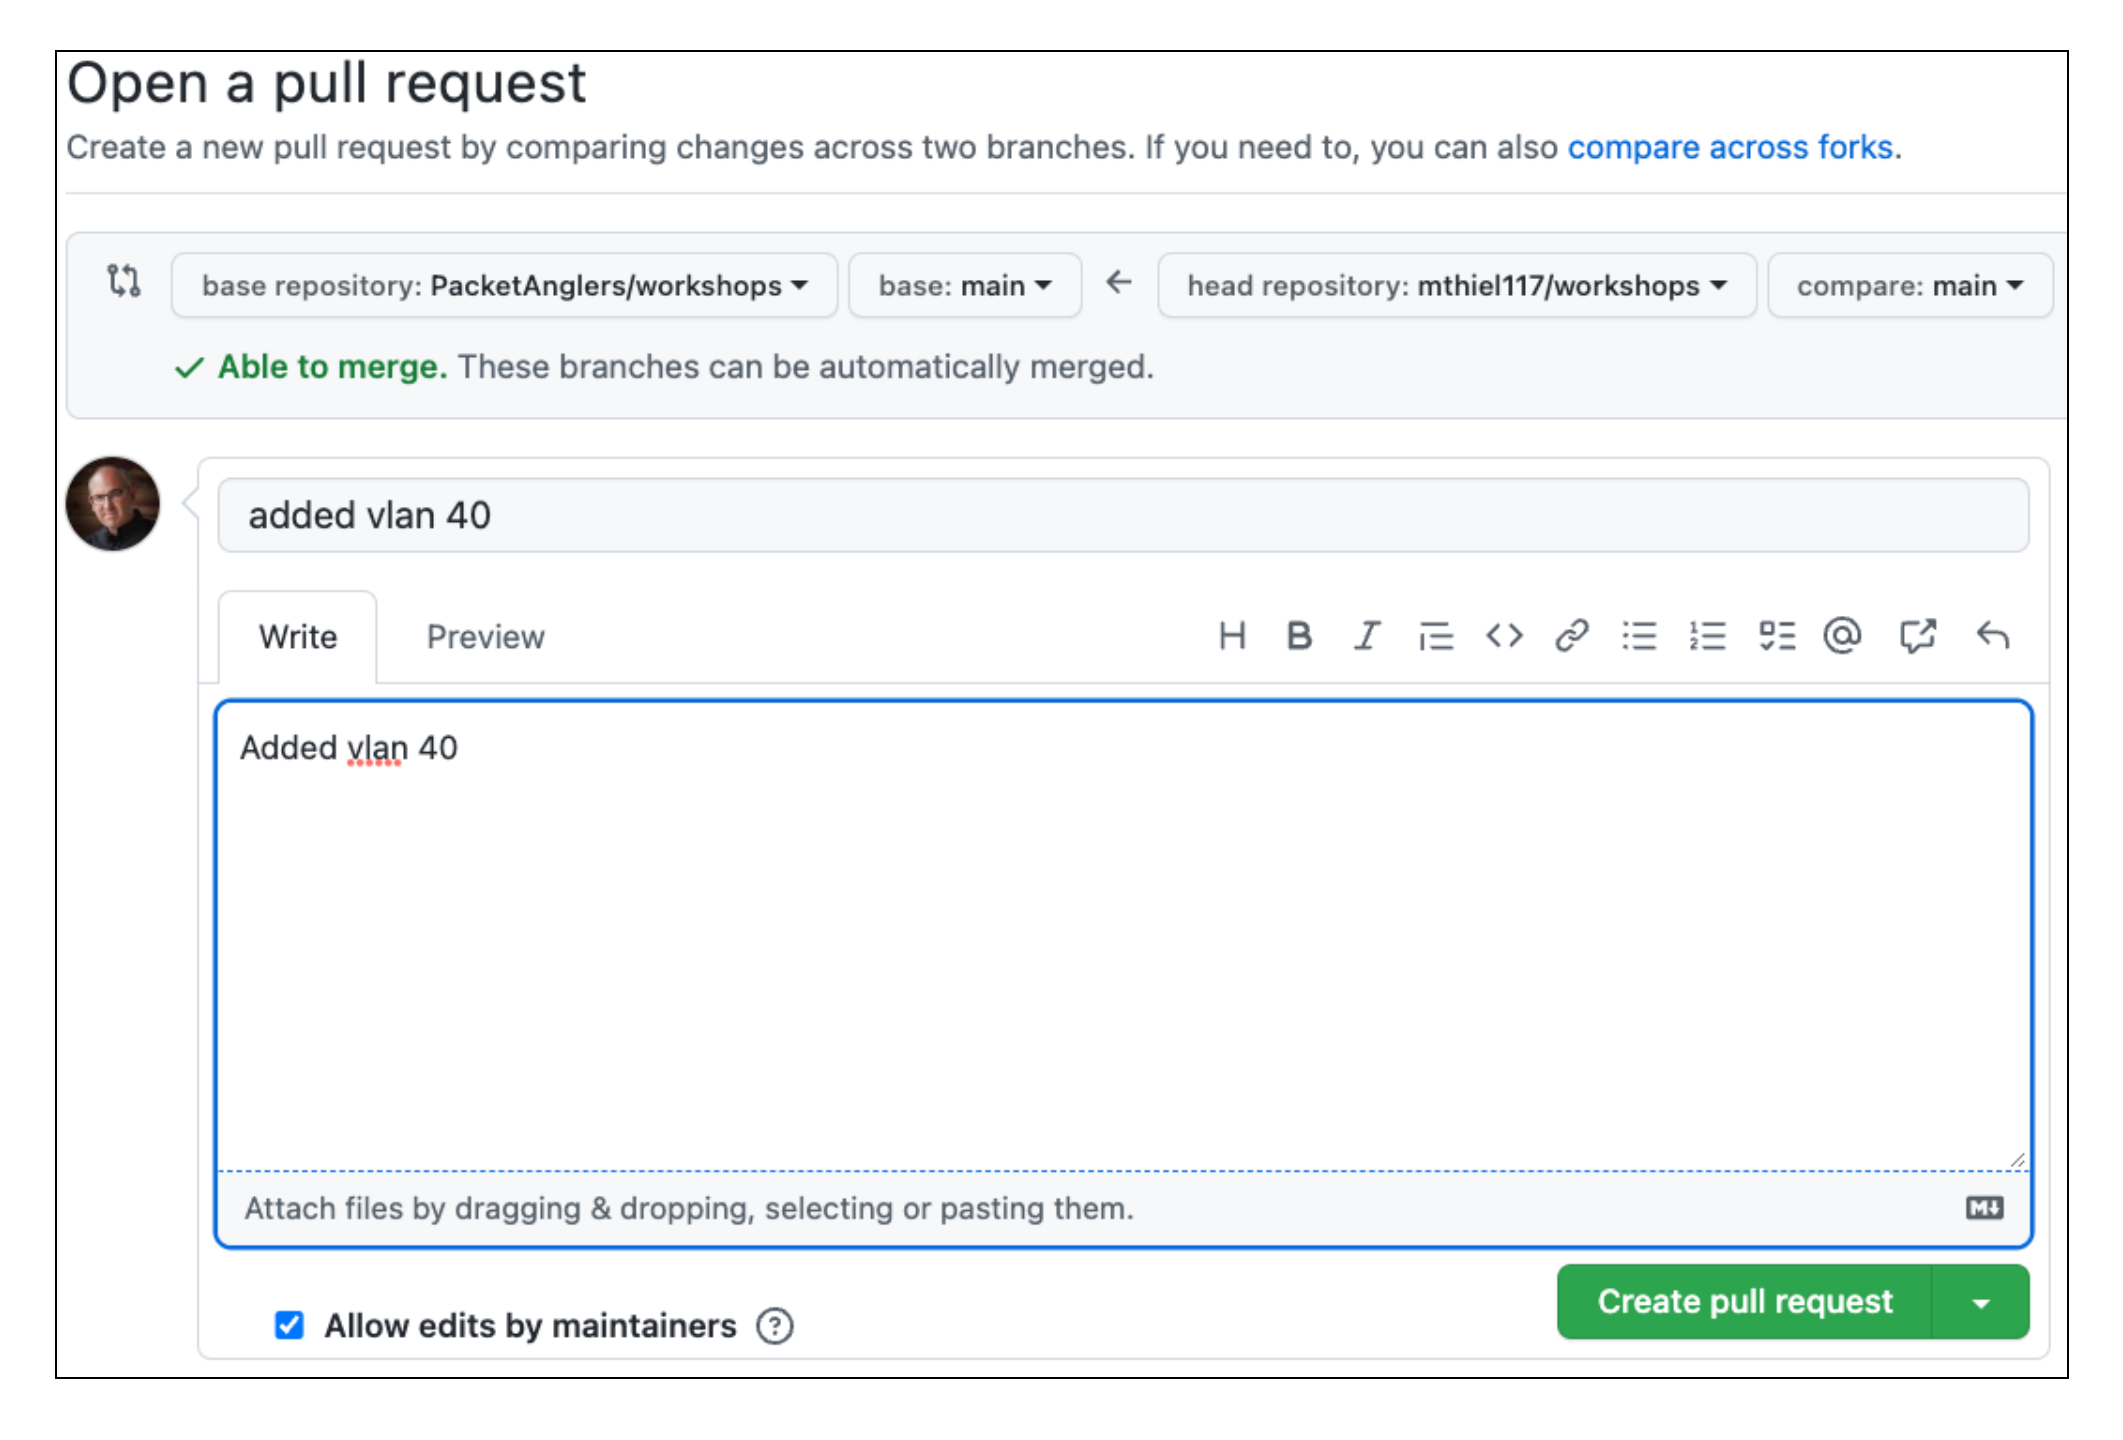
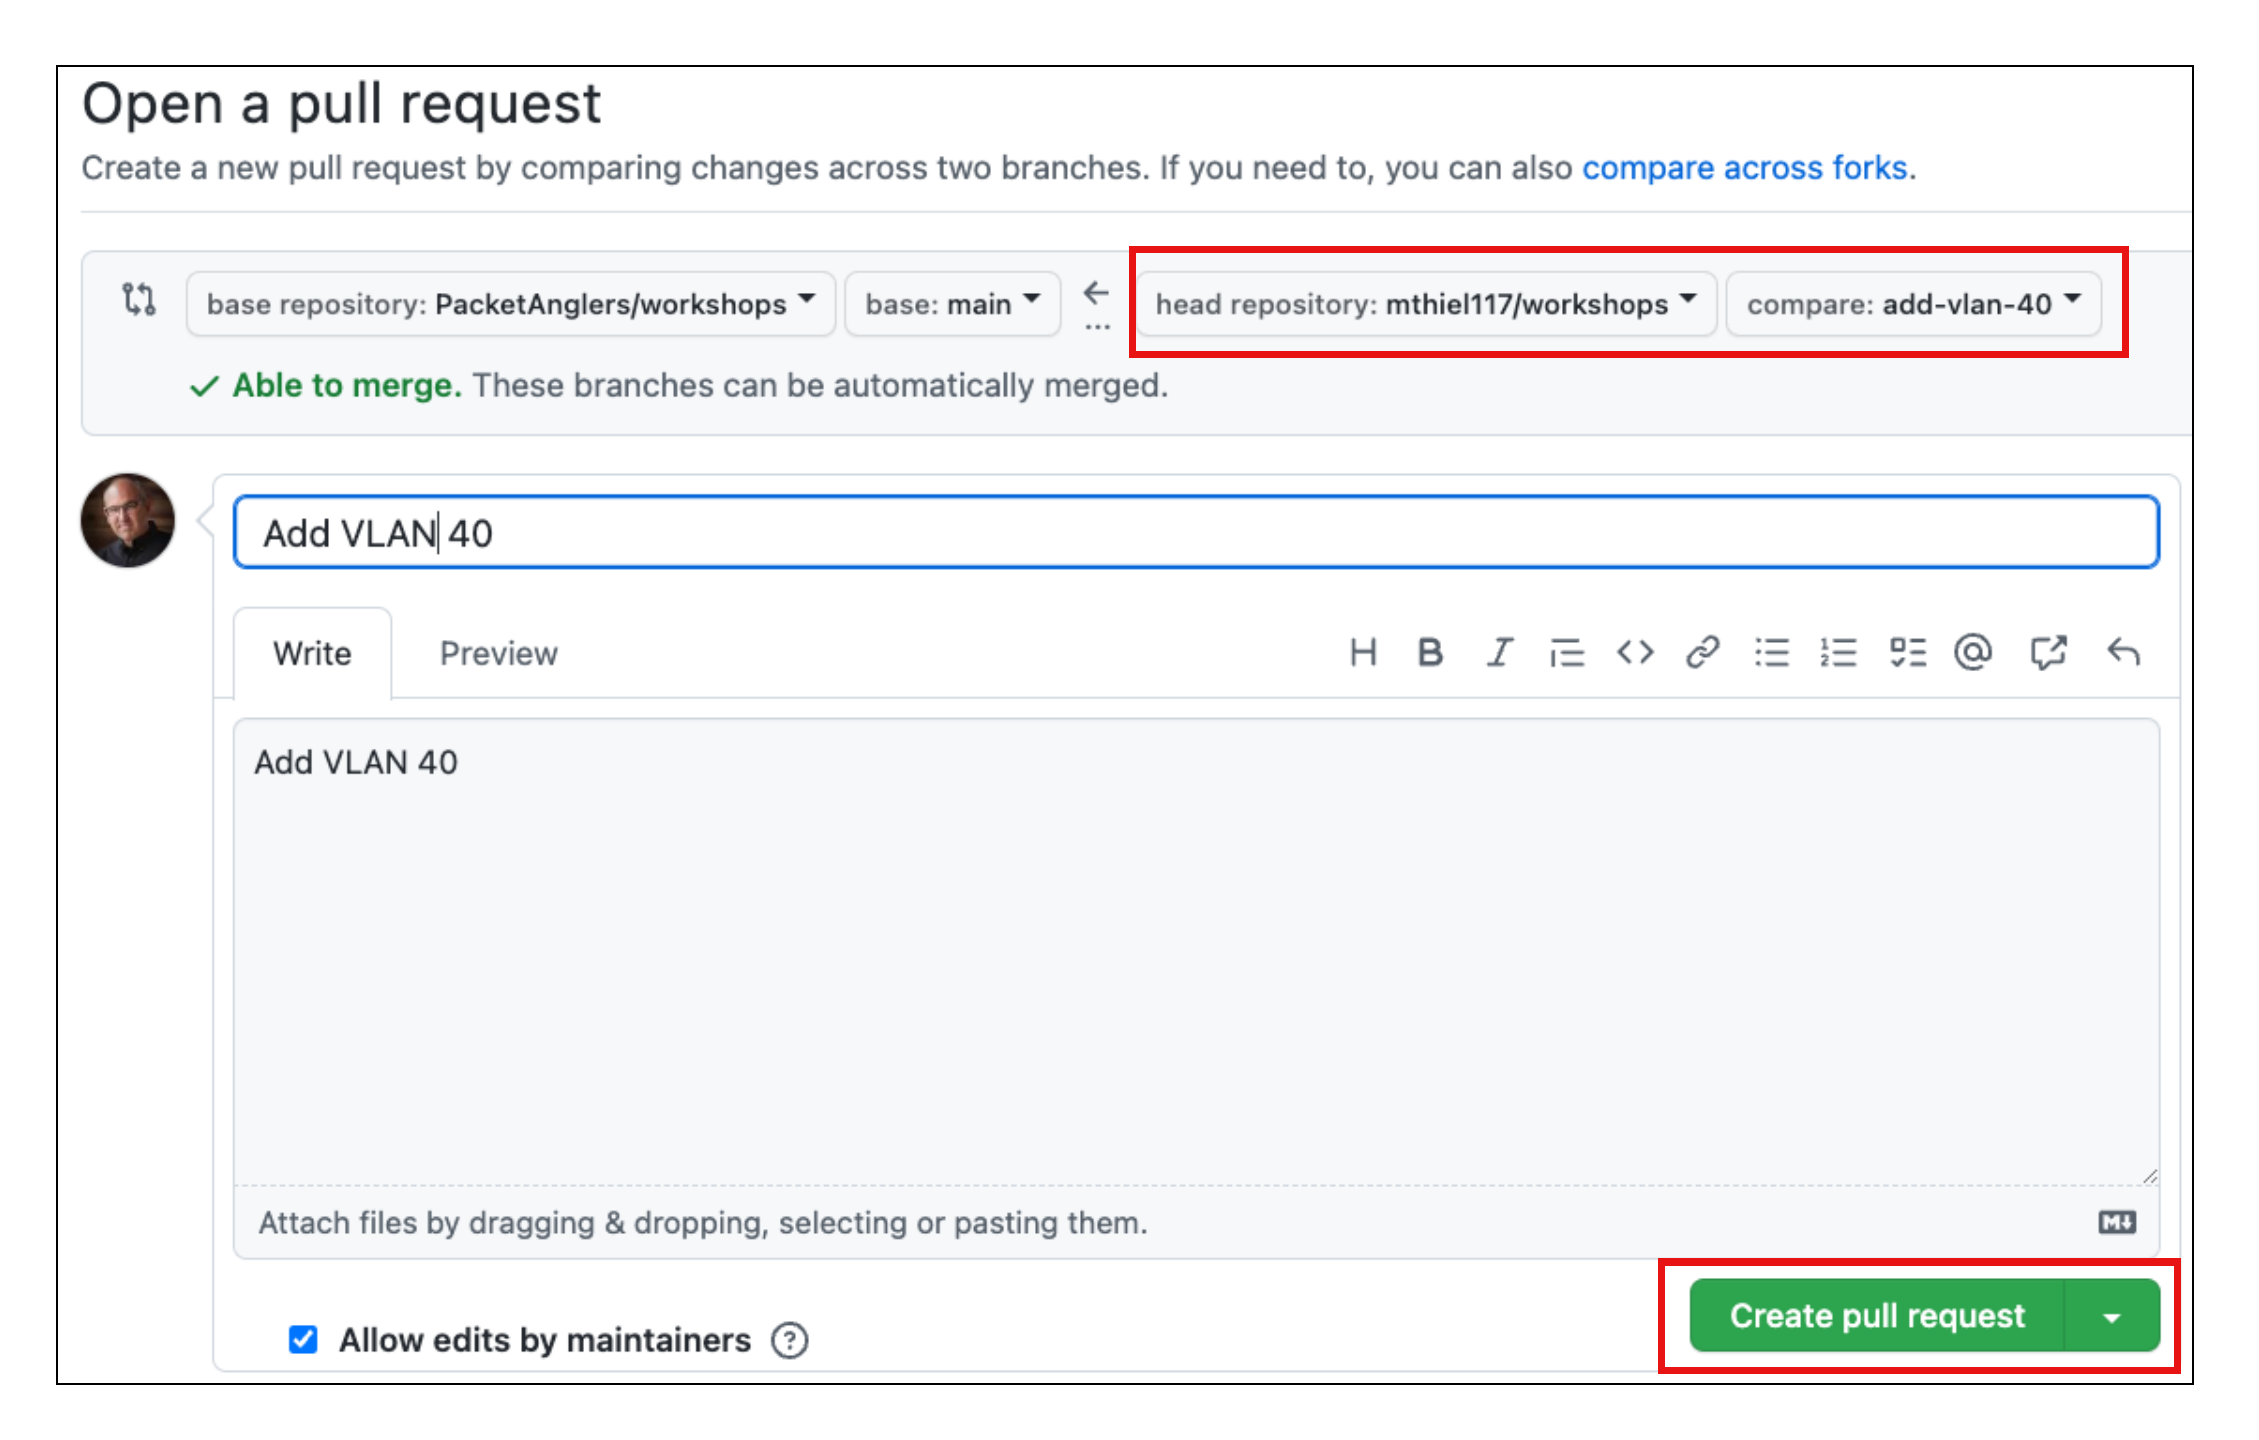
added vlan 40 and updated sections with graphics

Changed region(s): [[0.0311, 0.3125, 0.9948, 0.9688], [0.0311, 0.0312, 0.9637, 0.2812]]

diff --git a/workshops/git.md b/workshops/git.md
@@ -219,7 +219,13 @@ Switch to this new branch:
 git switch update-hostnames
 ```
 
-Using the IDE, open each switch config file and update the hostname.  Changes are auto-saved. Then stage and commit the changes to the new branch `update-hostnames`.
+Using the IDE, open each switch config file and update the hostname.  Changes are auto-saved. Let's verify the changes (diffs) we are about to commit to make sure they are correct.
+
+``` bash
+git diff
+```
+
+Now, stage and commit the changes to the new branch `update-hostnames`.
 
 ``` bash
 git add .
@@ -320,20 +326,33 @@ Verify where the remote copy of this clones lives.
 git remote -v
 ```
 
-### Push/Pull Changes to GitHub
+In the next step, let's add a new vlan 40 to the the `atd/vlans.yml` file.  First we should create a new branch.
 
-Once you modify the files in your new branch, you can stage & commit the changes and push them to the remote fork on GitHub.
+### Create the branch
 
 ``` bash
-# stage all the changes
-git add .
+git branch add-vlan-40
 
-# commit them
-git commit -m "updated content with new feature"
-
-# push new branch to remote repo on GitHub
-git push --set-upstream origin update-hostnames
+git switch add-vlan-40
 ```
+
+Now update `vlans.yml` with vlan 40 information.
+
+Additonally, stage and commit these changes to the new branch.
+
+### Push Changes to GitHub
+
+Now push the updated branch to your remote fork on GitHub.
+
+``` bash
+# push new branch to remote repo on GitHub
+git push --set-upstream origin add-vlan-40
+```
+
+???+ note
+    You will be prompted to authenticate to GitHub if this is the first time you are pushing from the Lab environment.  Follow along the `Copy & Continue to GitHub` prompts by entering the 8 digit authentication code. Additional pushes to GitHub will cache your credentials.
+
+Once authenticated your new branch and updated file will exist on GitHub.
 
 Output:
 
@@ -342,21 +361,21 @@ Enumerating objects: 7, done.
 Counting objects: 100% (7/7), done.
 Delta compression using up to 16 threads
 Compressing objects: 100% (3/3), done.
-Writing objects: 100% (4/4), 348 bytes | 348.00 KiB/s, done.
-Total 4 (delta 2), reused 1 (delta 0), pack-reused 0
+Writing objects: 100% (4/4), 335 bytes | 335.00 KiB/s, done.
+Total 4 (delta 2), reused 0 (delta 0), pack-reused 0
 remote: Resolving deltas: 100% (2/2), completed with 2 local objects.
 remote:
-remote: Create a pull request for 'update-hostnames' on GitHub by visiting:
-remote:      https://github.com/mthiel117/workshops/pull/new/update-hostnames
+remote: Create a pull request for 'add-vlan-40' on GitHub by visiting:
+remote:      https://github.com/mthiel117/workshops/pull/new/add-vlan-40
 remote:
 To https://github.com/mthiel117/workshops.git
- * [new branch]      update-hostnames -> update-hostnames
-Branch 'update-hostnames' set up to track remote branch 'update-hostnames' from 'origin'.
+ * [new branch]      add-vlan-40 -> add-vlan-40
+Branch 'add-vlan-40' set up to track remote branch 'add-vlan-40' from 'origin'.
 ```
 
-You should now see the new branch `update-hostnames` and commit messages in GitHub.
+You should now see the new branch `add-vlan-40` and commit messages in GitHub.
 
-The next step is to merge the `update-hostnames` branch into the `main` branch.  A Pull Request is used to do this.
+The next step is to merge the `add-vlan-40` branch into the `main` branch.  A Pull Request is used to do this.
 
 ### Pull request
 
@@ -376,3 +395,13 @@ Once all changes have been agreed upon, the maintainer of the original repo will
 6. To create a pull request that is ready for review, click Create Pull Request. To create a draft pull request, use the drop-down and select Create Draft Pull Request, then click Draft Pull Request.
 
 This will generate a Pull Request on the main project repository. The owner/maintainer can then merge the pull request once all changes are satisfied.
+
+### Cleanup
+
+After your Pull Request is merged, there are some additonal steps you may want to do.
+
+1. Delete your branch on GitHub and your local host.
+2. Sync your Forked repo (below)
+3. Pull the updates into `main` branch on your local host. `git pull`
+
+![GitHub Sync Fork](assets/images/github_sync_fork.png){: style="width:750px"}
